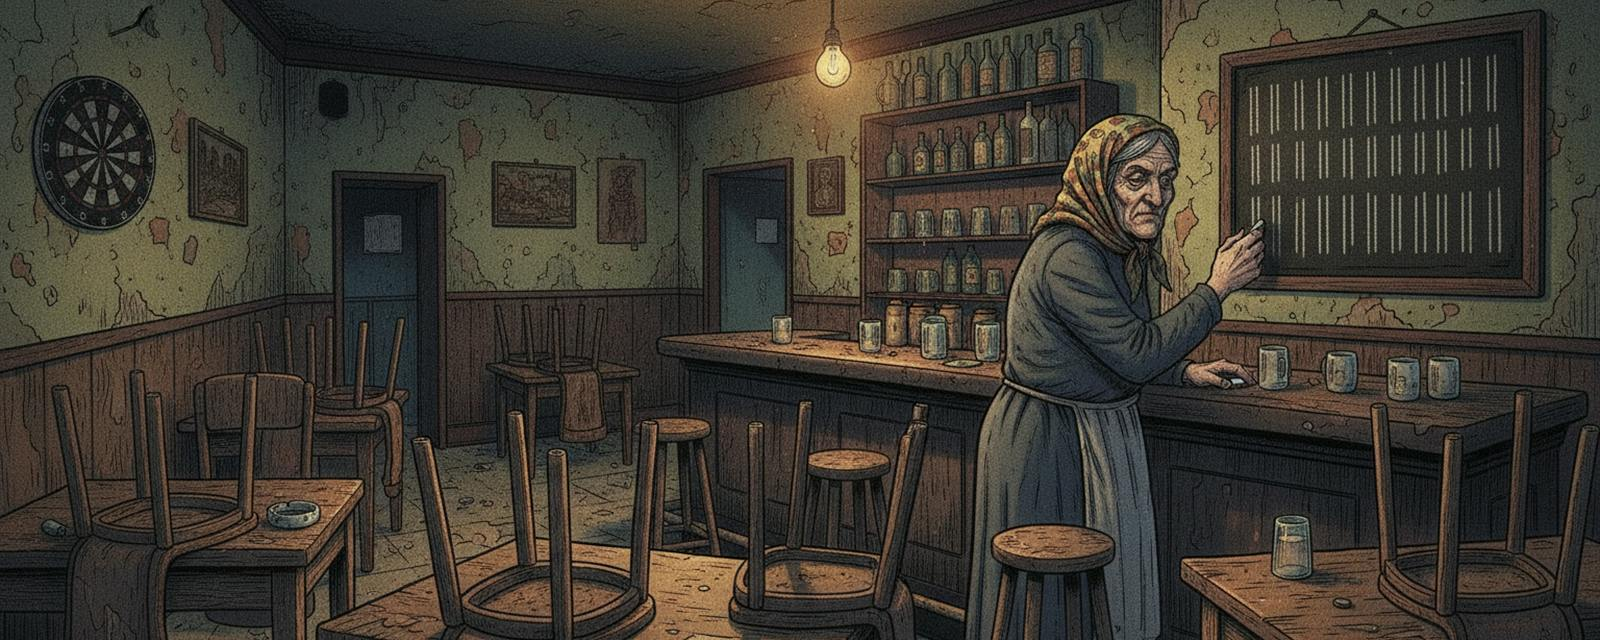
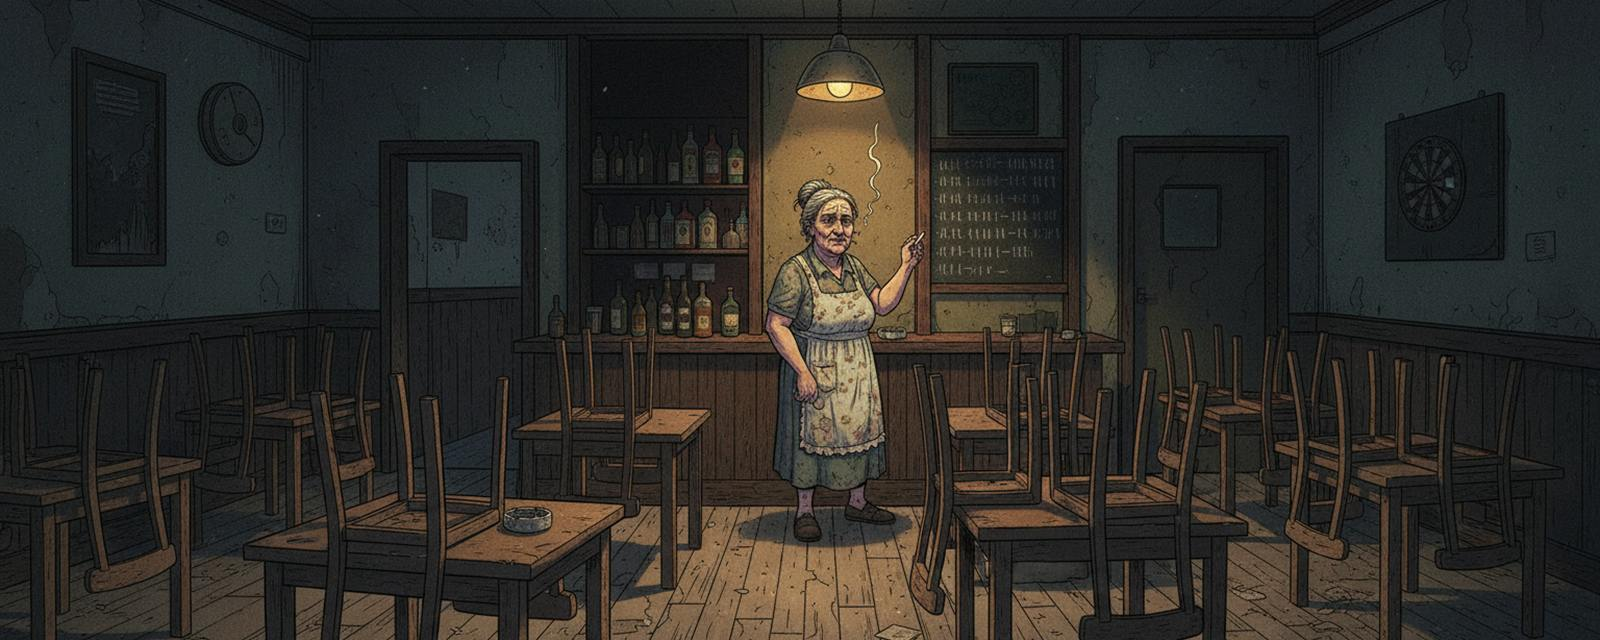
Ilustrácie kapitol pravidiel nanovo podľa najvydarenejších kariet; pravidlo o dyme (Michal 2026-10-24)
15 pásov 1600×640 vygenerovaných znova, predloha štýlu = Kočovník, Niekoho
stryná, Podvodník, Zámočník, Krčmárka, Poštárka, Veterinár, Pán farár
(Leonardo berie najviac 6 referencií — každý pás dostane inú šesticu).
Každý obrázok skontrolovaný pri plnej veľkosti: dym len z cigarety,
popolníka alebo úst, žiadne zložité ruky, bez nápisov a rámikov.

Pevné pravidlo o dyme a rukách je v styl.md aj v STYL (styl.ts), takže
platí pre každý budúci obrázok vrátane kariet.

diff --git a/tools/admin/styl.ts b/tools/admin/styl.ts
@@ -13,7 +13,11 @@ export const STYL =
   "cross-hatching and grainy texture in the shadows, muted dirty palette of browns, olive, slate blue and grey with one warm " +
   "accent light, slightly grotesque caricatured expressive faces with realistic proportions, run-down post-socialist " +
   "Slovak village atmosphere with cluttered worn details. Square composition, main subject centered. " +
-  "No text, no letters, no logos, no watermark, no frame, no border.";
+  "No text, no letters, no logos, no watermark, no frame, no border. " +
+  // Pevné pravidlo Michala 2026-10-24 pre každý obrázok (styl.md): ľuďom sa dymilo z chrbta a z uší.
+  "Smoke may come ONLY from a lit cigarette, from a cigarette resting in an ashtray, or from the mouth of a person exhaling it — " +
+  "never from ears, backs, hair, clothes or out of thin air. " +
+  "Hands in simple natural poses, anatomically correct with five fingers; no tangled or interlocked hands.";
 
 /** Pás nad kapitolou pravidiel (Michal 2026-10-24): ten istý štýl, široká scéna; orezá sa na 2,5 : 1. */
 export const STYL_PASU = STYL.replace(
@@ -21,7 +25,8 @@ export const STYL_PASU = STYL.replace(
   "Wide panoramic banner composition, the scene spread across the whole width, nothing important near the top and bottom edges. Full bleed: the artwork fills the entire canvas to every edge — " +
     "no letterbox bars, no white margin, no panel border, no signature. No signs or labels with writing anywhere.",
 );
-export const REFERENCIE_PASU = ["krcma", "pijan", "svokra"];
+/** Predloha štýlu pásov: karty, ktoré Michal považuje za najvydarenejšie (2026-10-24). */
+export const REFERENCIE_PASU = ["kocovnik", "niekoho_stryna", "podvodnik", "zamocnik", "krcmarka", "postarka", "veterinar", "farar"];
 
 export const REFERENCIE: Readonly<Record<string, readonly string[]>> = {
   obcan: ["svokra", "pijan", "hasic"],

diff --git a/tools/admin/admin.ts b/tools/admin/admin.ts
@@ -449,7 +449,11 @@ async function main(): Promise<void> {
     const adr = join(PRACOVNY, "pravidla", kluc);
     mkdirSync(adr, { recursive: true });
     const prompt = `${namet.trim().replace(/\.$/, "")}. ${STYL_PASU}`;
-    const referencie = REFERENCIE_PASU.map((id) => join("packages/server/seed/karty", `${id}.jpg`));
+    // Leonardo berie najviac 6 referencií — každý pás dostane inú šesticu, aby sa vystriedali všetky.
+    const posun = [...kluc].reduce((a, c) => a + c.charCodeAt(0), 0) % REFERENCIE_PASU.length;
+    const referencie = Array.from({ length: Math.min(6, REFERENCIE_PASU.length) }, (_, i) =>
+      join("packages/server/seed/karty", `${REFERENCIE_PASU[(posun + i) % REFERENCIE_PASU.length]}.jpg`),
+    );
     writeFileSync(join(adr, "zadanie.json"), `${JSON.stringify({ prompt, kategoria: "pas", referencie }, null, 2)}\n`);
     const seed = hodnota("--seed");
     // 21:9 je najširší pomer Nano Banana; pás 2,5 : 1 sa z neho vyreže.

diff --git a/tools/admin/styl.md b/tools/admin/styl.md
@@ -32,6 +32,14 @@ vyčnievala.
   nečitateľný.)
 - **Bez skutočných osôb a značiek** — žiadne podobizne známych ľudí, žiadne
   skutočné logá či produkty.
+- **Dym — pevné pravidlo** (Michal 2026-10-24, platí pre každý obrázok, karty
+  aj pásy): dym smie ísť **len z horiacej cigarety, z cigarety v popolníku
+  alebo z úst postavy, ktorá ho vyfukuje**. Nikdy z ucha, chrbta, vlasov,
+  oblečenia ani len tak zo vzduchu. Model to rád porušuje — zadymená krčma mu
+  stačí ako dôvod. Ak scéna fajčenie nepotrebuje, napíš do námetu „nobody is
+  smoking, no smoke anywhere“.
+- **Ruky** v jednoduchých prirodzených polohách, päť prstov. Žiadne pretláčanie,
+  prepletené ruky ani zložité úchopy — model ich kreslí zle.
 
 ## Šablóna promptu
 
@@ -96,13 +104,26 @@ Pred použitím si každý návrh pozri (Read na súbor) a over:
 
 1. Linka, šrafovanie a paleta sedia s referenciami (polož ich vedľa seba).
 2. Motív je v strede a prežije orez do karty (54 × 80 mm, ilustrácia v hornej časti).
-3. Žiadny text, logo, rám, ani deformované ruky či tváre.
-4. Postava zodpovedá názvu a téme karty (Kliatba pôsobí ako trest, Starešina
+3. Žiadny text, logo, rám, ani deformované ruky či tváre. Ruky a prsty si
+   pozri pri plnej veľkosti (pri pochybnosti zväčšený výrez).
+4. **Dym**: každý obláčik musí viesť k cigarete, popolníku alebo k ústam.
+   Dym z chrbta, hlavy či zo vzduchu = zlý obrázok, generuj znova.
+5. Postava zodpovedá názvu a téme karty (Kliatba pôsobí ako trest, Starešina
    ako autorita, Zviera ako dedinské zviera).
 
 Ak žiadny z návrhov nesedí, uprav námet (konkrétnejšie prostredie, výraz,
 svetlo) a generuj znova — nie viac ako 3 kolá na kartu bez konzultácie
 s Michalom (generovanie stojí kredity).
+
+## Pásy kapitol pravidiel
+
+`admin.ts pas-generuj <kluc> "<námet>" [--sila MID]` — široký pás nad
+kapitolou stránky Pravidlá: 1536 × 672 (21:9, najširší pomer Nano Banana),
+potom orez na 2,5 : 1 a zmenšenie na 1600 × 640 JPEG (150–250 kB) do
+`apps/web/src/stranky/pravidla-obrazky/`. Predloha štýlu sú karty, ktoré
+Michal považuje za najvydarenejšie (`REFERENCIE_PASU` v `styl.ts`: Kočovník,
+Niekoho stryná, Podvodník, Zámočník, Krčmárka, Poštárka, Veterinár, Pán farár).
+Model občas pridá biely okraj alebo čierne pruhy — orezávaj len čistú plochu.
 
 ## Ikony akcií (SVG)
 
